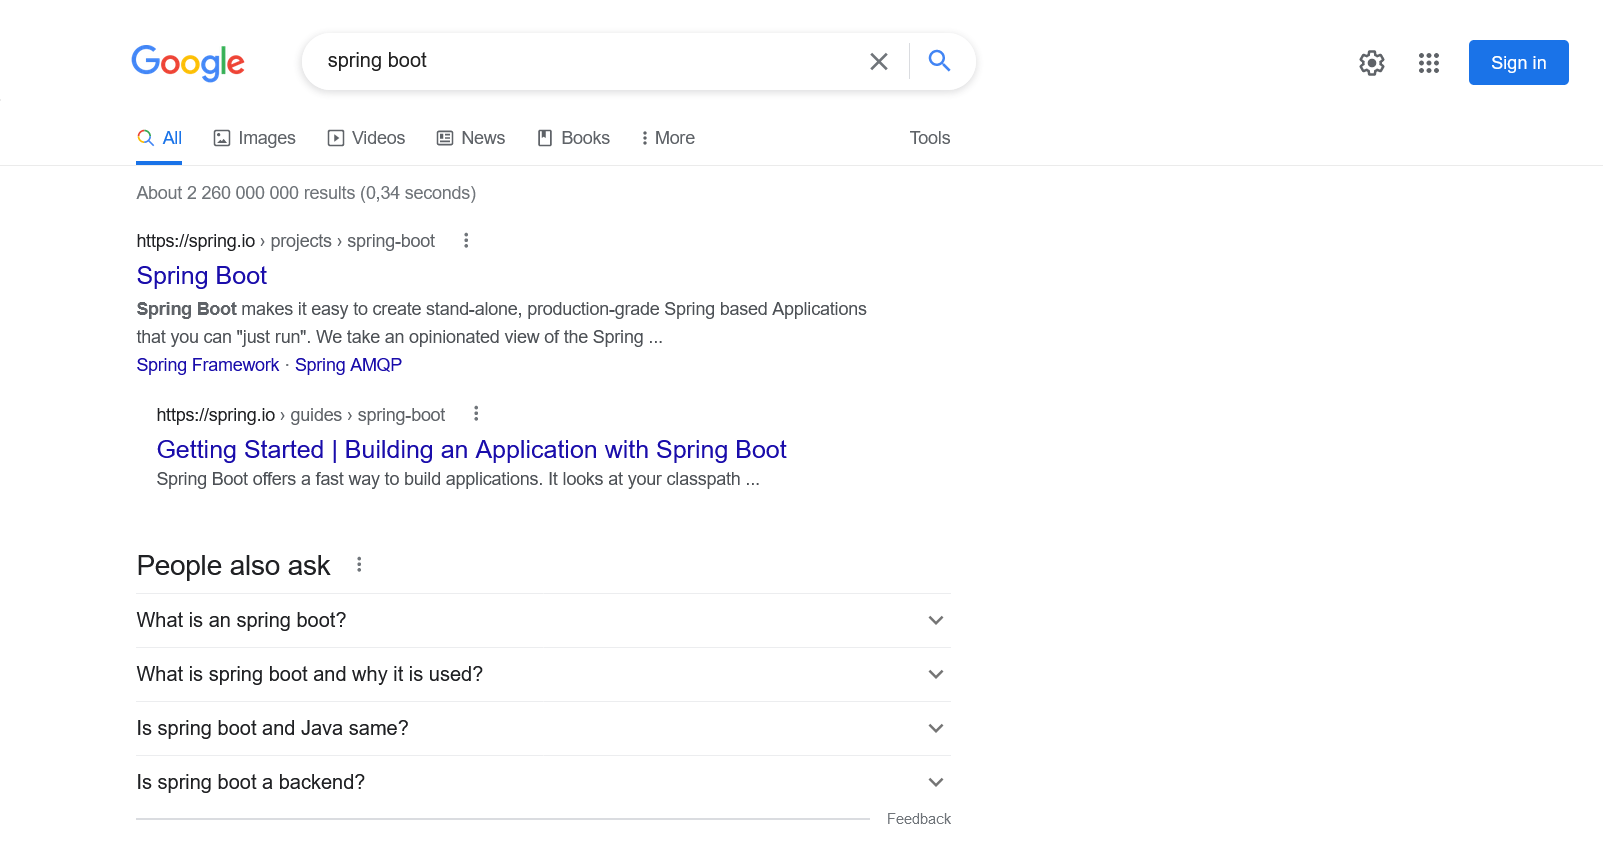
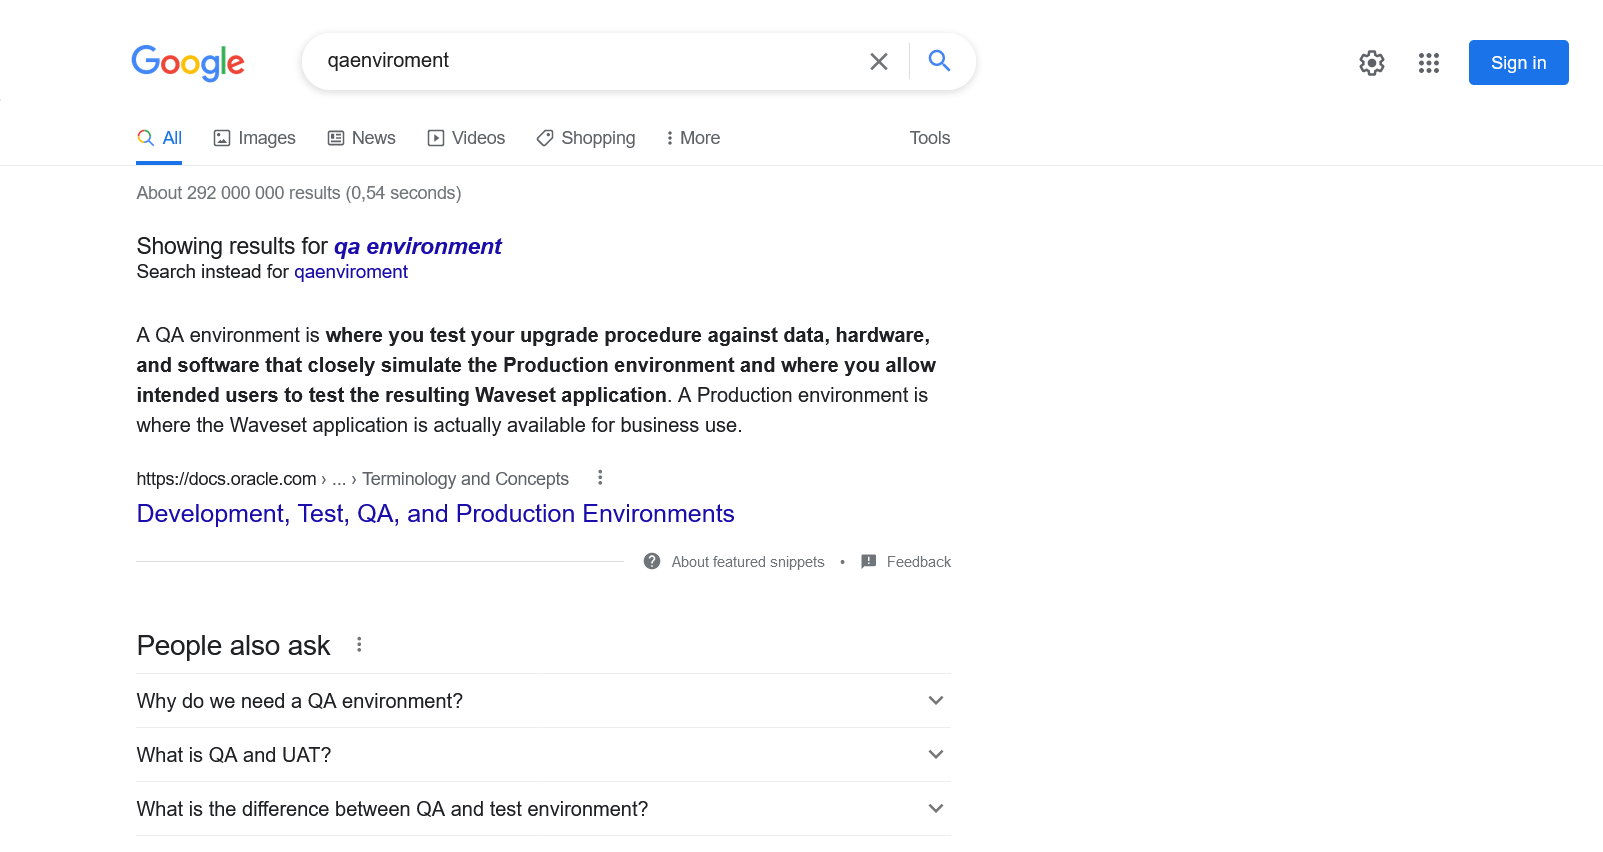
@Lazy annotation and firefox updated

diff --git a/src/test/java/com/example/SpringSelenium/googletest/GoogleTest.java b/src/test/java/com/example/SpringSelenium/googletest/GoogleTest.java
@@ -3,12 +3,14 @@ package com.example.SpringSelenium.googletest;
 import com.example.SpringSelenium.SpringBaseTestNGTest;
 import com.example.SpringSelenium.page.google.GooglePage;
 import com.example.SpringSelenium.util.ScreenShotUtil;
+import com.google.common.util.concurrent.Uninterruptibles;
 import org.springframework.beans.factory.annotation.Autowired;
 import org.springframework.context.annotation.Lazy;
 import org.testng.Assert;
 import org.testng.annotations.Test;
 
 import java.io.IOException;
+import java.util.concurrent.TimeUnit;
 
 public class GoogleTest extends SpringBaseTestNGTest {
     @Autowired
@@ -23,7 +25,9 @@ public class GoogleTest extends SpringBaseTestNGTest {
         this.googlePage.goTo();
         Assert.assertTrue(this.googlePage.isAt());
 
-        this.googlePage.getSearchComponent().search("spring boot");
+        Uninterruptibles.sleepUninterruptibly(3, TimeUnit.SECONDS);
+
+        this.googlePage.getSearchComponent().search("enviroment ");
         Assert.assertTrue(this.googlePage.getSearchResult().isAt());
         Assert.assertTrue(this.googlePage.getSearchResult().getCount() > 2);
         this.screenShotUtil.takeScreenShot();

diff --git a/src/test/java/com/example/SpringSelenium/condition/Civic.java b/src/test/java/com/example/SpringSelenium/condition/Civic.java
@@ -1,14 +1,15 @@
 package com.example.SpringSelenium.condition;
 
+import org.springframework.beans.factory.annotation.Qualifier;
 import org.springframework.boot.autoconfigure.condition.ConditionalOnExpression;
 import org.springframework.stereotype.Component;
 
 @Component
-@ConditionalOnExpression("${car.speed} < 70")
+@Qualifier("civic")
 public class Civic implements Car{
     @Override
     public void run() throws InterruptedException {
         Thread.sleep(7000);
-        System.out.println("This is accord. Speed is 60 mph");
+        System.out.println("This is civic. Speed is 60 mph");
     }
 }

diff --git a/src/test/java/com/example/SpringSelenium/condition/Accord.java b/src/test/java/com/example/SpringSelenium/condition/Accord.java
@@ -1,10 +1,11 @@
 package com.example.SpringSelenium.condition;
 
+import org.springframework.beans.factory.annotation.Qualifier;
 import org.springframework.boot.autoconfigure.condition.ConditionalOnExpression;
 import org.springframework.stereotype.Component;
 
 @Component
-@ConditionalOnExpression("${car.speed} >= 70")
+@Qualifier("accord")
 public class Accord implements Car{
     @Override
     public void run() {

diff --git a/src/test/java/com/example/SpringSelenium/condition/CarTest.java b/src/test/java/com/example/SpringSelenium/condition/CarTest.java
@@ -2,9 +2,12 @@ package com.example.SpringSelenium.condition;
 
 import com.example.SpringSelenium.SpringBaseTestNGTest;
 import org.springframework.beans.factory.annotation.Autowired;
+import org.springframework.beans.factory.annotation.Qualifier;
 import org.testng.annotations.Test;
 
 public class CarTest extends SpringBaseTestNGTest {
+    @Qualifier("civic")
+
     @Autowired
     private Car car;
 
